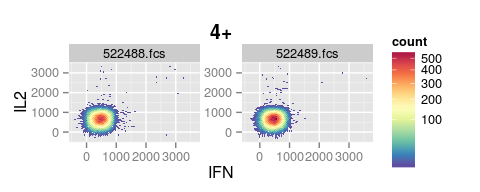
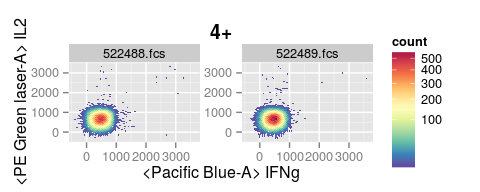
1. add 'labs_cyto' layer 2. apply the non-lazy elements from theme_ggcyto right away when it is added

diff --git a/vignettes/ggcyto.GatingSet.md b/vignettes/ggcyto.GatingSet.md
@@ -33,6 +33,34 @@ p
 ![](ggcyto.GatingSet_files/figure-html/unnamed-chunk-3-3.png) 
 
 ```r
+# print the default settings
+theme_ggcyto_default()
+```
+
+```
+## $limits
+## [1] "data"
+## 
+## $facet
+## facet_wrap(name) 
+## 
+## $hex_fill
+## continuous_scale(aesthetics = "fill", scale_name = "gradientn", 
+##     palette = gradient_n_pal(colours, values, space), na.value = na.value, 
+##     trans = "sqrt", guide = guide)
+## 
+## $lab
+## $labels
+## [1] "both"
+## 
+## attr(,"class")
+## [1] "labs_cyto"
+## 
+## attr(,"class")
+## [1] "ggcyto_theme"
+```
+
+```r
 # add gate
 p + geom_gate("4+")
 ```
@@ -126,6 +154,13 @@ theme_ggcyto_default()
 ## continuous_scale(aesthetics = "fill", scale_name = "gradientn", 
 ##     palette = gradient_n_pal(colours, values, space), na.value = na.value, 
 ##     trans = "sqrt", guide = guide)
+## 
+## $lab
+## $labels
+## [1] "both"
+## 
+## attr(,"class")
+## [1] "labs_cyto"
 ## 
 ## attr(,"class")
 ## [1] "ggcyto_theme"

diff --git a/vignettes/autoplot.md b/vignettes/autoplot.md
@@ -33,17 +33,32 @@ autoplot(fs, x = 'FSC-H', y = 'SSC-H', bins = 64)
 # apply the instrument range by default
 # use direct parent
 # inverse trans axis
-autoplot(gs, "3+", bins = 64)
+p <- autoplot(gs, "3+", bins = 64)
+p
 ```
 
 ![](autoplot_files/figure-html/unnamed-chunk-4-1.png) 
+
+```r
+# display marker only
+p + labs_cyto("marker")
+```
+
+![](autoplot_files/figure-html/unnamed-chunk-4-2.png) 
+
+```r
+# display channel only
+p + labs_cyto("channel")
+```
+
+![](autoplot_files/figure-html/unnamed-chunk-4-3.png) 
 
 ```r
 # multiple
 autoplot(gs, c("4+", "8+"), bins = 64)
 ```
 
-![](autoplot_files/figure-html/unnamed-chunk-4-2.png) 
+![](autoplot_files/figure-html/unnamed-chunk-4-4.png) 
 
 ## `GatingHierarchy`
 
